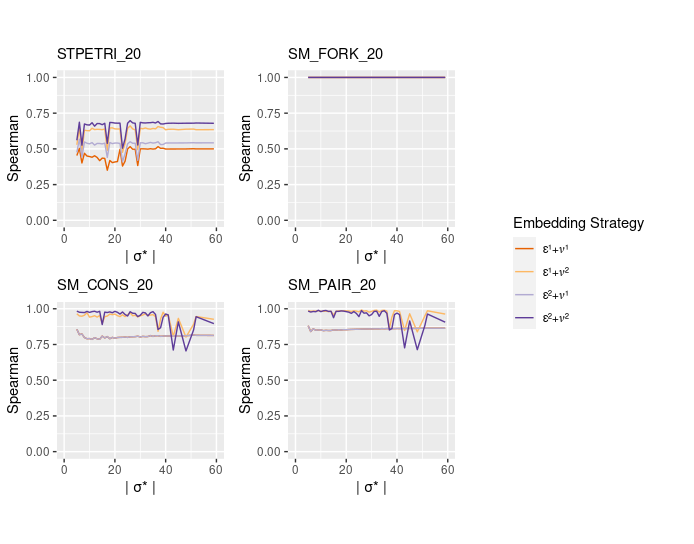
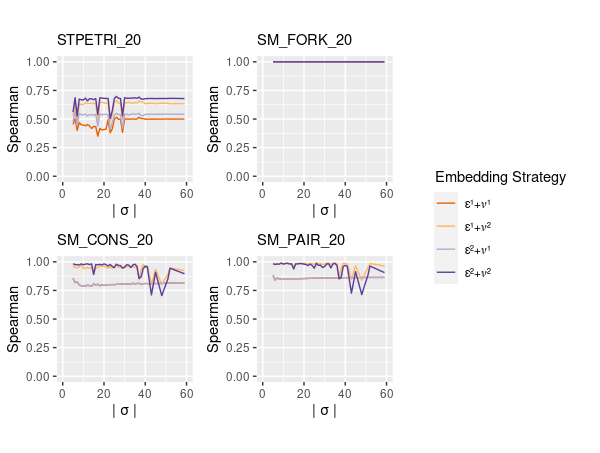
1) changed the representation back to frac 2) Changed the benchmarks with sigma as the log trace 3) From now on, all the non-log traces are \sigma', \nonlogtraces

diff --git a/sections/03_embedding_2.tex b/sections/03_embedding_2.tex
@@ -35,49 +35,60 @@ The well-known $k$-nearest neighbors ($k$NN) problem \cite{Altman} refers to fin
 %	
 If we want to align the trace $\logtrace$ over the \unravelled\ traces $\mathcal{X}=\WCal{\pmin}{n}$ and $d$ is a distance, the $k$-nearest neighbors describe the best $k$ alignments for $\logtrace$.} We now discuss two different possible strategies for obtaining the top-$k$ model trace alignments.
 
-\subsubsection{Optimal-Ranking Trace Aligner}\label{subsec:eta}
-{A possible way to carry out probabilistic trace alignment is to reuse existing trace aligners such as \cite{LeoniM17}, where the notion of distance $d(\trace,\logtrace)$ between two traces $\trace$ and $\logtrace$ is the Levenshtein distance, i.e., the {minimum} cost for aligning one of the two traces with respect to the other when all the possible moves have cost equal to 1.\footnote{This distance is slightly different from the Levenshtein distance known in the literature since here the replacement is obtained as a concatenation of a deletion and an addition.} We can then exploit decision theory \cite{dectheor} and express the decision score as  $\probskip{\trace} d(\trace,\logtrace)$.
 
-If we want to represent the same intuition of such a weighted distance as a kernel function to induce a ranking, we need to first transform it as a similarity function returning $1$ when both $\trace=\logtrace$ and  $\probskip{\trace}=1$ hold. We express $d$ as}
+\begin{figure*}[!t]
+	\begin{minipage}{.49\textwidth}
+		\includegraphics[width=\textwidth]{images/aligner_exact.pdf}
+		\caption{Optimal-Ranking Trace Aligner.}\label{fig:optimal}
+	\end{minipage}\hfill \begin{minipage}{.49\textwidth}
+		
+		\includegraphics[width=\textwidth]{images/aligner.pdf}
+		\caption{Approx.-Ranking Trace Aligner.}\label{fig:approximate}
+	\end{minipage}
+\end{figure*}
+\subsubsection{Optimal-Ranking Trace Aligner}\label{subsec:eta}
+{A possible way to carry out probabilistic trace alignment is to reuse existing trace aligners such as \cite{LeoniM17}, where the notion of distance $d(\nonlogtrace,\logtrace)$ between two traces $\nonlogtrace$ and $\logtrace$ is the Levenshtein distance, i.e., the {minimum} cost for aligning one of the two traces with respect to the other when all the possible moves have cost equal to 1.\footnote{This distance is slightly different from the Levenshtein distance known in the literature since here the replacement is obtained as a concatenation of a deletion and an addition.} We can then exploit decision theory \cite{dectheor} and express the decision score as  $\probskip{\nonlogtrace} d(\nonlogtrace,\logtrace)$.
+
+If we want to represent the same intuition of such a weighted distance as a kernel function to induce a ranking, we need to first transform it as a similarity function returning $1$ when both $\nonlogtrace=\logtrace$ and  $\probskip{\logtrace}=1$ hold. We express $d$ as}
 %\xout{We can express our probabilistic trace alignment as finding the trace that maximizes both the trace's probability and its similarity with the query trace $\logtrace$. Still, the trace alignments problems are usually expressed via trace alignments cost functions, and not via trace similarities \cite{LeoniM17}. Given a generic trace cost function $d(\trace,\trace')$, it is always possible to convert it into}
-a normalized similarity score $s_d(\trace,\trace'):=1/(d(\trace,\trace')/c+1)$ where $c\in\mathbb{N}_{\neq 0}$ is a constant, so that the maximum similarity of $1$ is reached when the distance is $0$ and the similarity decreases while the distance increases \cite{BergamiBM20}. %\xout{As a consequence, the exact trace aligner will find the weighted trace $\braket{\trace,\mathbb{P}(\trace)}$ in $\mathcal{W}_{\pmin}(P)$ maximising $s_d(\trace,\logtrace)$, and use $s_d$ as a ranking function.} \ADD
-{By  $\probskip{\logtrace}=1$, we can express the golden kernel function (i.e., the one producing the optimal ranking) as $k_\star(\trace,\logtrace)=\probskip{\trace} \probskip{\logtrace} s_d(\trace,\logtrace)$. The computation $\underset{\braket{\trace,\probskip{\trace}}\in \WCal{\pmin}{n}(P)}{\max\arg} k_\star(\trace, {\logtrace})$ returns the best optimal-ranking trace alignment $\trace$ for a query trace $\logtrace$, where $k_\ast$ must be computed a-new for all the possible $\logtrace$.
+a normalized similarity score $s_d(\nonlogtrace,\logtrace):=1/(d(\nonlogtrace,\logtrace)/c+1)$ where $c\in\mathbb{N}_{\neq 0}$ is a constant, so that the maximum similarity of $1$ is reached when the distance is $0$ and the similarity decreases while the distance increases \cite{BergamiBM20}. %\xout{As a consequence, the exact trace aligner will find the weighted trace $\braket{\trace,\mathbb{P}(\trace)}$ in $\mathcal{W}_{\pmin}(P)$ maximising $s_d(\trace,\logtrace)$, and use $s_d$ as a ranking function.} \ADD
+{By  $\probskip{\logtrace}=1$, we can express the golden kernel function (i.e., the one producing the optimal ranking) as $k_\star(\nonlogtrace,\logtrace)=\probskip{\nonlogtrace} \probskip{\logtrace} s_d(\nonlogtrace,\logtrace)$. The computation $\underset{\nonlogtrace\in \WCal{\pmin}{n}}{\max\arg} k_\star(\nonlogtrace, {\logtrace})$ returns the best optimal-ranking trace alignment $\nonlogtrace$ for a log trace $\logtrace$, where $k_\ast$ must be computed a-new for all the possible $\logtrace$.
 	
 	
 	
 
 \subsubsection{Approximate-Ranking Trace Embedder}\label{subsec:ate}
-As previously observed, $k$NN ranking optimality comes at the sub-optimal cost of a brute-force recomputation of all the embeddings $\phi$ for each novel trace $\logtrace$ to align\footnote{By embedding  all the \unravelled\ model traces via $\phi_{\logtrace}(\braket{\trace,\probskip{\trace}})=\Big(\frac{1}{\probskip{\trace}\sqrt{\probskip{\trace}^2+s_d^2(\trace,\logtrace)}},\frac{1}{s_d(\trace,\logtrace)\sqrt{\probskip{\trace}^2+s_d^2(\trace,\logtrace)}}\Big)$ over a specific $\logtrace$, by representing all the $\logtrace$ as $(0,0)$, and by using the Euclidean Distance as a distance, we ensure that all the neighbors of $(0,0)$ will represent the top-$k$ best alignments for $\logtrace$.}. %This is not optimal for $k$NN-based techniques, as this entails the  redefinition of the multidimensional search space $\mathcal{X}$ for each new alignment $\logtrace$. The ``recomputation cost'' could be completely avoided by providing an embedding strategy $\gorgembed$ that is independent from the to-be-aligned trace $\logtrace$.
+As previously observed, $k$NN ranking optimality comes at the sub-optimal cost of a brute-force recomputation of all the embeddings $\phi$ for each novel trace $\logtrace$ to align\footnote{By embedding  all the \unravelled\ model traces via $\phi_{\logtrace}(\nonlogtrace)=\Big(\frac{1}{\probskip{\nonlogtrace}\sqrt{\probskip{\nonlogtrace}^2+s_d^2(\nonlogtrace,\logtrace)}},\frac{1}{s_d(\nonlogtrace,\logtrace)\sqrt{\probskip{\nonlogtrace}^2+s_d^2(\nonlogtrace,\logtrace)}}\Big)$ over a specific $\logtrace$, by representing  $\logtrace$ as $(0,0)$, and by using the Euclidean Distance as a distance, we ensure that all the neighbors of $(0,0)$ will represent the top-$k$ best alignments for $\logtrace$.}. %This is not optimal for $k$NN-based techniques, as this entails the  redefinition of the multidimensional search space $\mathcal{X}$ for each new alignment $\logtrace$. The ``recomputation cost'' could be completely avoided by providing an embedding strategy $\gorgembed$ that is independent from the to-be-aligned trace $\logtrace$.
 An embedding strategy 
 Given that each embedding $\phi$ entails an associated similarity metric $k_\phi$ (\S\ref{subsec:katk}) and therefore an associated distance $d_{k_\phi}$ (Equation \ref{eq:dofk}), we can compute all the embeddings $\gorgembed$ for all the \unravelled\ traces before performing the top-$k$ search, thus avoiding the brute-force cost. This computational gain comes with a loss in precision, as the generation of precise embeddings for graph data with loops is an NP-Complete (thus intractable) problem \cite{GartnerFW03} and, in its approximated version, is not able to accurately represent the data using low-dimensional vectors \cite{Seshadhri5631}. So, our proposed definition of $\gorgembed$ performs  weakly-ideally (\S\ref{subsec:katk} and \cite{Gartner03}).
 
-{The embedding strategy} $\trembed$ (\S\ref{subsec:katk} and \cite{LodhiSSCW02,Raedt}9 {from current literature has several short\-comings: firstly,} \begin{alphalist} \item it does not perform weakly-ideally, so we cannot numerically assess when two embedding represent equivalent traces (Example \ref{ex:wheredotiszero}). Secondly, \item it does not characterize $\tau$-moves, so initial $\tau$-moves' probabilities are not preserved (Example \ref{ex:neue}). Thirdly, \item it is affected by numerical errors from finite arithmetics (e.g., double, float): longer traces $\trace$ generated from skewed probability distributions $\expN.\Lambda^i$ will suffer from greater truncation errors, as smaller $\lambda^i$ components for bigger $i<|\trace|$ will be ignored, thus preventing a complete numerical vector characterization of  $\trace$ in practice.
+{The embedding strategy} $\trembed$ (\S\ref{subsec:katk} and \cite{LodhiSSCW02,Raedt}9 {from current literature has several short\-comings: firstly,} \begin{alphalist} \item it does not perform weakly-ideally, so we cannot numerically assess when two embedding represent equivalent traces (Example \ref{ex:wheredotiszero}). Secondly, \item it does not characterize $\tau$-moves, so initial $\tau$-moves' probabilities are not preserved (Example \ref{ex:neue}). Thirdly, \item it is affected by numerical errors from finite arithmetics (e.g., double, float): longer traces $\nonlogtrace$ generated from skewed probability distributions $\expN.\Lambda^i$ will suffer from greater truncation errors, as smaller $\lambda^i$ components for bigger $i<|\nonlogtrace|$ will be ignored, thus preventing a complete numerical vector characterization of  $\nonlogtrace$ in practice.
 \end{alphalist}
 
 {We overcome these shortcomings by} \begin{alphalist} \item proposing a weakly-ideal embedding (p. \pageref{subsub:prop}), which also \item exploits an $\omega$ factor for preserving probabilities from and to $\tau$ transitions (Example \ref{ex:neue}). Furthermore, \item we mitigate the numerical truncation errors induced by trace length and probability distribution's skewness by introducing two sub-embedding strategies, $\epsilon^x$ and $\nu^x$, where the former descends from $\trembed$ and the latter approximates the trace similarity via label frequencies' similarity.
 \end{alphalist}
 
-Given that a trace embedding $\trace\in\WCal{\pmin}{n}$ adequately representing the transitions in $\expN.\Lambda$ requires an intermediate $G$ representation, we can map each trace to a transition graph $\tg_\sigma$ as follows:}
+Given that a trace embedding $\nonlogtrace\in\WCal{\pmin}{n}$ adequately representing the transitions in $\expN.\Lambda$ requires an intermediate $G$ representation, we can map each trace to a transition graph $\tg_\sigma$ as follows:}
 	\begin{definition}[$\closed{G}$ projection over traces]
-		Given a minimum probability threshold $\pmin$ and a $\tau$-closed transition graph $\closed{G}$, for each trace $\trace\in\ptraces{\closed{G}}{\pmin}$ we generate a transition graph
-		$\closed{G}_\sigma=(V_\trace,s_\trace,t_\trace,L_\trace,R_\trace,\omega_\trace)$, where \begin{inparaenum}[\it (i)]
-		\item $V_\trace$ contains all the distinct transitions 	
+		Given a minimum probability threshold $\pmin$ and a $\tau$-closed transition graph $\closed{G}$, for each trace $\nonlogtrace\in\ptraces{\closed{G}}{\pmin}$ we generate a transition graph
+		$\closed{G}_\sigma=(V_\nonlogtrace,s_\nonlogtrace,t_\nonlogtrace,L_\nonlogtrace,R_\nonlogtrace,\omega_\nonlogtrace)$, where \begin{inparaenum}[\it (i)]
+		\item $V_\nonlogtrace$ contains all the distinct transitions 	
 		\end{inparaenum}\dots
 		
-		\dots we generate a set $\TBf{\pmin}{n}(\closed{G})$ of projected TGs $P$ for each trace in $\WCal{\pmin}{n}(P)$ as follows: for each weighted trace $\braket{\trace,\probskip{\trace}}\in\WCal{\pmin}{n}(P)$ generated from a path $\pi_\trace=s\to n_2\rightsquigarrow n_m\to t$ over $R$, we generate a TG $P_\trace=(s',t',L_\trace,R_\trace,\omega')$, where \begin{inparaenum}[\it (i)]
+		\dots we generate a set $\TBf{\pmin}{n}(\closed{G})$ of projected TGs $P$ for each trace in $\WCal{\pmin}{n}(P)$ as follows: for each weighted trace $\braket{\nonlogtrace,\probskip{\nonlogtrace}}\in\WCal{\pmin}{n}(P)$ generated from a path $\pi_\nonlogtrace=s\to n_2\rightsquigarrow n_m\to t$ over $R$, we generate a TG $P_\nonlogtrace=(s',t',L_\nonlogtrace,R_\nonlogtrace,\omega')$, where \begin{inparaenum}[\it (i)]
 			\item $s'=s$ if $\textit{label}(s)\neq \tau$ and $t'=n_2$ otherwise,
 			\item $t'=t$ if $\textit{label}(t)\neq \tau$ and $t'=n_m$ otherwise,
-			\item $L_\trace$ (and $R_\trace$) is the submatrix of $L$ (and $R$) over the non-$\tau$ labeled notes in $\pi_\trace$ and the labels from $\trace$,
+			\item $L_\nonlogtrace$ (and $R_\nonlogtrace$) is the submatrix of $L$ (and $R$) over the non-$\tau$ labeled notes in $\pi_\nonlogtrace$ and the labels from $\nonlogtrace$,
 			\item $\omega'$ is initialized by $\omega$ and then multiplied by $[R]_{s,n_2}$ (and also $[R]_{n_m,t}$) if $\textit{label}(s)=\tau$ (and  $\textit{label}(t)=\tau$).
 		\end{inparaenum}
 	\end{definition}
 
 \begin{table}[!t]
-	\caption{Generating the sub-TGs $P_\trace\in \TBf{\varepsilon}{4}(P)$ from the TG $P$ via the set of weighted traces $\WCal{\varepsilon}{4}(P)$, where $\varepsilon$ is the machine epsilon. $l$ and $w$ respectively represent the desired parameter for $\gorgembed(P_\trace)$ and the weight associated to $P_\trace$.}\label{tab:proj}
+	\caption{Generating the sub-TGs $P_\nonlogtrace\in \TBf{\varepsilon}{4}(P)$ from the TG $P$ via the set of weighted traces $\WCal{\varepsilon}{4}(P)$, where $\varepsilon$ is the machine epsilon. $l$ and $w$ respectively represent the desired parameter for $\gorgembed(P_\nonlogtrace)$ and the weight associated to $P_\nonlogtrace$.}\label{tab:proj}
 	\centering
 	\resizebox{.45\textwidth}{!}{\begin{tabular}{>{\centering\arraybackslash} m{1cm}| >{\centering\arraybackslash} m{4cm} >{\centering\arraybackslash} m{1cm} >{\centering\arraybackslash} m{1cm} }
 			\toprule
-			$\trace$&$P_\trace$&$l$&$\omega$\\
+			$\nonlogtrace$&$P_\nonlogtrace$&$l$&$\omega$\\
 			\midrule
 			$\const{a}$ & \includegraphics{images/trace_a} & $1$ & $\color{violet}\pa\pf$\\
 			$\const{cb}$ & \includegraphics{images/trace_cb} & $2$ & $\color{violet}\pb$\\
@@ -86,7 +97,7 @@ Given that a trace embedding $\trace\in\WCal{\pmin}{n}$ adequately representing 
 			\bottomrule
 	\end{tabular}}\quad 	\resizebox{.45\textwidth}{!}{\begin{tabular}{>{\centering\arraybackslash} m{1cm}| >{\centering\arraybackslash} m{4cm} >{\centering\arraybackslash} m{1cm} >{\centering\arraybackslash} m{1cm} }
 	\toprule
-	$\trace$&$P_\trace$&$l$&$\omega$\\
+	$\nonlogtrace$&$P_\nonlogtrace$&$l$&$\omega$\\
 	\midrule
 	$\const{aa}$ & \includegraphics{images/trace_aa} & $2$ & $\color{violet}\pa\pf$\\
 	$\const{ca}$ & \includegraphics{images/trace_ca} & $2$ & $\color{violet}\pb\pf$\\
@@ -98,11 +109,11 @@ Given that a trace embedding $\trace\in\WCal{\pmin}{n}$ adequately representing 
 \begin{example}\label{ex:neue}
 Given the $\tau$-closed transition graph $\closed{\tg_{\rg{\net}}}$ in Figure \ref{fig:closed}, we assign the following probability values to the edges: $\pa=0.8$, $\pb=0.2$, $\pc=\pf=0.5$, $\pd=0.7$, and $\pe=0.3$. The $\ptraces{\expN}{0}$ with maximum length $4$ are the following:
 $$\begin{aligned}
-\ptraces{\expN}{0}_{|\trace|\leq 4}=\{&\braket{a,0.4},\braket{aa,0.2},\braket{aaa,0.1},\braket{ca,0.07},\\
+\ptraces{\expN}{0}_{|\nonlogtrace|\leq 4}=\{&\braket{a,0.4},\braket{aa,0.2},\braket{aaa,0.1},\braket{ca,0.07},\\
 &\braket{cb,0.06},\braket{aaaa,0.05},\braket{caa,0.035},\braket{caaa,0.0175}\}\\
 \end{aligned}$$
 Table \ref{tab:proj} represents the projected transition graphs associated to such traces. The associated weight $\omega$ derives from the source's outgoing edges (and target's ingoing edges) when such node is labeled as $\tau$: given that both \textit{(i)} the embedding strategy from current literature (\S\ref{subsec:katk}) allows trace embedding just for visible (i.e., non-$\tau$) transitions, and that \textit{(ii)} such trace extraction process discards the $\tau$ information but we want to preserve the transition probabilities from and to $\tau$ transitions, we exploit an additional parameter $\omega$ to preserve such information.
-%\xout{selection of a trace $\trace$ implies performing a set of specific probabilistic choices, we can remove all the edges starting (and arriving) at nodes that are $\tau$-labelled and move their score as the weight of the TG.}
+%\xout{selection of a trace $\nonlogtrace$ implies performing a set of specific probabilistic choices, we can remove all the edges starting (and arriving) at nodes that are $\tau$-labelled and move their score as the weight of the TG.}
 \end{example}
 	
 {We can now focus on the embedding $\gorgembed$ for each TG associated to our selected weighted traces. The main goal is to use $k_{\gorgembed}$ for ranking all the traces generated by the \unravelling step. Walking on such footsteps, we  want to extend  previous work on embeddings (\S\ref{subsec:katk}) by both including the traces' associated probability and by making the ranking induced by $k_{\gorgembed}$ the inverse of the ranking induced by the sum of the following distances: the transitions correlations $\epsilon$ and the transitions label frequency $\nu$ ({Proof omitted due to lack of space}). }
@@ -133,7 +144,7 @@ $$\gorgembed_{i}(\closed{\tg})=\begin{cases}
 where $\epsilon$ (and $\nu$) represents the non-negatively defined embedding associated to $\closed{\tg}.R$ (both $\closed{\tg}.R$ and $\closed{\tg}.L$).
 \end{definition}
 
-At this stage, the computation of $\underset{\trace\in \WCal{\pmin}{n}, P_\trace\in\TBf{p}{n}(P)}{\max\arg} k_{\gorgembed}(P_\trace, P_{\logtrace})$ returns the best approximated trace alignment $\trace$ for a query trace represented as $P_{\logtrace}$. %\xout{Similarly, we can provide the TG $P\in\mathbf{P}$ providing the best approximated alignment for $P_{\logtrace}$ as $\underset{P}{\max\arg}\underset{ P_\trace\in\mathbf{P}_p^n(P)}{\max} k_{\gorgembed}(P_\trace, P_{\logtrace})$.}¯
+At this stage, the computation of $\underset{\nonlogtrace\in \WCal{\pmin}{n}, P_\nonlogtrace\in\TBf{p}{n}(P)}{\max\arg} k_{\gorgembed}(P_\nonlogtrace, P_{\logtrace})$ returns the best approximated trace alignment $\nonlogtrace$ for a query trace represented as $P_{\logtrace}$. %\xout{Similarly, we can provide the TG $P\in\mathbf{P}$ providing the best approximated alignment for $P_{\logtrace}$ as $\underset{P}{\max\arg}\underset{ P_\trace\in\mathbf{P}_p^n(P)}{\max} k_{\gorgembed}(P_\trace, P_{\logtrace})$.}¯
 
 \begin{table}[!t]
 	\caption{Different sub-embedding definitions ($\epsilon^1$, $\epsilon^2$, $\nu^1$, and $\nu^2$) for $\gorgembed$.}\label{tab:embedstrat}
@@ -145,18 +156,18 @@ At this stage, the computation of $\underset{\trace\in \WCal{\pmin}{n}, P_\trace
 		$\epsilon^x(P)_{\color{green}\alpha\beta}:=$ & $\label{eq:epsilon}
 		\sum_{i=1}^l{\lambda^i}\frac{[LR^iL^t]_{\color{green}\alpha\beta}}{\sum_{\color{green}\alpha'\beta'}R^i_{\color{green}\alpha'\beta'}}$ & $
 		\sum_{i=1}^l\lambda^i[\Lambda^i]_{\color{green}\alpha\beta}$\\
-		$\nu^x(P)_{\color{green}\alpha}:=$ & $\frac{1}{N}\sum_{\braket{\trace,w}\in\WCal{\pmin}{l}(P)}\frac{|\Set{\trace_i\in\trace|\trace_i\neq\tau\wedge \trace_i={\color{green}\alpha}}|}{|\trace|}$ & $0$ \\
+		$\nu^x(P)_{\color{green}\alpha}:=$ & $\frac{1}{N}\sum_{\braket{\nonlogtrace,w}\in\WCal{\pmin}{l}(P)}\frac{|\Set{\nonlogtrace_i\in\nonlogtrace|\nonlogtrace_i\neq\tau\wedge \nonlogtrace_i={\color{green}\alpha}}|}{|\nonlogtrace|}$ & $0$ \\
 		\bottomrule
 	\end{tabular}}
 \end{table}
-Albeit we might pick different characterizations for $\epsilon$ and $\nu$, {in our experiment section} we choose two possible interchangeable definitions ($x=1$ and $x=2$) for both sub-embeddings (Table \ref{tab:embedstrat}): $l$ is the path length indicated in Table \ref{tab:proj}, and $N$ for $\nu^1$ is a normalization factor such that $\sum_{{\color{green}\alpha}\in\trace_\tau}\nu^1(P)_{\color{green}\alpha}=1$. \ADD{While $\nu^2$ implies to completely ignore the label's frequency contribution, $\epsilon^2$ is the direct implementation of $\trembed$ from \S\ref{subsec:katk}, and $\epsilon^1$ and $\epsilon^2$ only differ from the normalization perspective.} %In Example \ref{ex:cmpexample}, we will see that the given definition of $\epsilon^1$ provides a better approximation than the edge embedding $\epsilon^2$.
+Albeit we might pick different characterizations for $\epsilon$ and $\nu$, {in our experiment section} we choose two possible interchangeable definitions ($x=1$ and $x=2$) for both sub-embeddings (Table \ref{tab:embedstrat}): $l$ is the path length indicated in Table \ref{tab:proj}, and $N$ for $\nu^1$ is a normalization factor such that $\sum_{{\color{green}\alpha}\in\nonlogtrace_\tau}\nu^1(P)_{\color{green}\alpha}=1$. \ADD{While $\nu^2$ implies to completely ignore the label's frequency contribution, $\epsilon^2$ is the direct implementation of $\trembed$ from \S\ref{subsec:katk}, and $\epsilon^1$ and $\epsilon^2$ only differ from the normalization perspective.} %In Example \ref{ex:cmpexample}, we will see that the given definition of $\epsilon^1$ provides a better approximation than the edge embedding $\epsilon^2$.
 
 
 %When the transition matrix is ergodic \cite{StocasticCC},  the transition matrix embedding converges to $\epsilon(R)_{\color{green}\alpha\beta}=[(\mathbf{I}-\lambda\Lambda)^{-1}]_{\color{green}\alpha\beta}$ \cite{GartnerFW03} for $n\to+\infty$.
 
 \begin{table}[!t]
 	\centering
-	\caption{Embedding for both the traces $\trace$ of maximum length $4$ from $P$ and  $\logtrace$.}\label{tab:emb2}\label{tab:embsitar}
+	\caption{Embedding for both the traces $\nonlogtrace$ of maximum length $4$ from $P$ and  $\logtrace$.}\label{tab:emb2}\label{tab:embsitar}
 	\resizebox{.6\textwidth}{!}{\begin{tabular}{l|l|l|l|l|l|l|}
 		\toprule
 		& $\const{a}$    & $\const{b}$                                                   & $\const{c}$    & $\const{aa}$   & $\const{ca}$   & $\const{cb}$   \\
@@ -177,10 +188,10 @@ Albeit we might pick different characterizations for $\epsilon$ and $\nu$, {in o
 	\end{tabular}}
 \end{table}
 \begin{example}\label{ex:withpaths} %After generating all the TGs for the \unravelled\ traces (Example \ref{ex:neue}), we further associate a sub-embedding $\epsilon$ using the $2$-grams included in the model traces.\footnoteref{fn:caveat}
-%Given $\trace_\tau=\Set{a,b,c}$, the embedding space is of size $6$: three features (computed using $\nu$) correspond to the labels of the non-$\tau$ vertices in $\trace_\tau$, i.e., $\{a,b,c\}$, and other three features (computed using $\epsilon$) correspond to the $2$-grams subsequences that are also traces in $W^4_0(P)$, i.e., $\{aa,ca,cb\}$. Therefore, $\{a,b,c,aa,ca,cb\}\subset \trace_\tau^2\cup\trace_\tau$ is the whole set of features describing both the label and the transition matrix, so $\gorgembed$ is a vector with 6 dimensions.
+%Given $\nonlogtrace_\tau=\Set{a,b,c}$, the embedding space is of size $6$: three features (computed using $\nu$) correspond to the labels of the non-$\tau$ vertices in $\nonlogtrace_\tau$, i.e., $\{a,b,c\}$, and other three features (computed using $\epsilon$) correspond to the $2$-grams subsequences that are also traces in $W^4_0(P)$, i.e., $\{aa,ca,cb\}$. Therefore, $\{a,b,c,aa,ca,cb\}\subset \nonlogtrace_\tau^2\cup\nonlogtrace_\tau$ is the whole set of features describing both the label and the transition matrix, so $\gorgembed$ is a vector with 6 dimensions.
 $t_f\in [0,1]\subset\mathbb{R}^+_{0}$ and $\lambda\in [0,1]\subset\mathbb{R}^+_{0}$ are tuning parameters that can be inferred from the available data \cite{DriessensRG06}. While the latter describes the previously mentioned decay factor, $t_f$ represents the relevance of our embedding representation when the number of the edges within TG increases. In both our experiments and examples, we chose $t_f=0.0001$ and $\lambda=0.07$.
 %\xout{The embedding associated to $P$ is described in Table \ref{tab:emb1} as $\gorgembed(P)$: it shows that doing ${\color{green}a}\rightsquigarrow{\color{green}a}$ is more probable than doing  ${\color{green}c}\rightsquigarrow{\color{green}a}$. Also, given that both the probability of performing ${\color{green}c}\overset{1}{\rightsquigarrow}{\color{green}b}$ is relatively low and trace $\color{green}cb$ is relatively infrequent, ${\color{green}c}{\rightsquigarrow}{\color{green}b}$ is less probable than any other subtrace. If we now consider the single nodes, $\color{green}c$ shares a subset of traces with $\color{green}a$ where $\color{green}a$ is more frequent than $\color{green}c$, and therefore the score of the former is higher than the one of the latter. Also, the score associated to the single node $\color{green}b$ is lower than the one for the single node $\color{green}c$ because $\color{green}b$ is less frequent and appears in less probable traces than $\color{green}c$: in particular, $\color{green}c$ appears in \textit{ca}, which is more probable than \textit{cb}.}
-Table \ref{tab:emb2} represents the embeddings $\gorgembed(P_\trace)$ generated from the sub-TGs generated in Example \ref{ex:neue}, where the $l=|\trace|$ for each trace $\trace$ associated to the sub-TG. This representation is completely independent from the representation associated with a trace to be aligned. Therefore it does not have to be recomputed at each alignment with a different $\logtrace$.
+Table \ref{tab:emb2} represents the embeddings $\gorgembed(P_\nonlogtrace)$ generated from the sub-TGs generated in Example \ref{ex:neue}, where the $l=|\nonlogtrace|$ for each trace $\nonlogtrace$ associated to the sub-TG. This representation is completely independent from the representation associated with a trace to be aligned. Therefore it does not have to be recomputed at each alignment with a different $\logtrace$.
 {After representing trace $\logtrace=\textup{caba}$ to be aligned as a graph (see Example \ref{ex:tracembed}), we can represent its}
 %\xout{Similar considerations can be also drawn from the}
 embedding $\gorgembed(P_{\logtrace})$ with strategies $\epsilon^1$ and $\nu^1$ %\xout{associated to the trace $\logtrace=\textup{caba}$ (also in Table --):} \ADD
@@ -191,7 +202,7 @@ embedding $\gorgembed(P_{\logtrace})$ with strategies $\epsilon^1$ and $\nu^1$ %
 
 %Given that kernel functions $k_\phi$ are defined as the dot product between the embedding $\phi$ of distinct objects $x$ (\S\ref{subsec:katk}), then we can express the kernel $k_{\gorgembed}$ as such dot product and, after normalizing $\epsilon$ and $\nu$, we can rewrite such kernel
 The kernel $k_\gorgembed$ associated to $\gorgembed$ is
-{ a function of the distance  $\|\hat{\epsilon}-\hat{\epsilon}'\|_2^2$ and $\|\hat{\nu}-\hat{\nu}'\|_2^2$ for traces $\trace$ and $\trace'$ to be aligned:}
+{ a function of the distance  $\|\hat{\epsilon}-\hat{\epsilon}'\|_2^2$ and $\|\hat{\nu}-\hat{\nu}'\|_2^2$ for traces $\nonlogtrace$ and $\nonlogtrace'$ to be aligned:}
 
 \begin{proposition}\label{lem:rewritinglemma}
 Given two TGs $P=(s,t,L,R,w)$ and $P'=(s',t',L',R',w')$, the TG Kernel is defined as follows:
@@ -247,9 +258,9 @@ When the $\hat{\epsilon}$ and $\hat{\epsilon}'$ strategy are affected by numeric
 		{$\trace$} &
 		%\multirow{2}{*}{$d(\trace,\logtrace)$} &
 		%\multicolumn{2}{c|}{$\mu_{\logtrace}$} &
-		$( \probskip{\trace}$ &  $,\,\boldsymbol{\downarrow} s_d(\trace,\logtrace)) $ &
-		{$=k_\star(\trace,\logtrace)$} &
-		{$k_{\gorgembed}(P_\trace,P_{\logtrace})$} \\
+		$( \probskip{\nonlogtrace}$ &  $,\,\boldsymbol{\downarrow} s_d(\nonlogtrace,\logtrace)) $ &
+		{$=k_\star(\nonlogtrace,\logtrace)$} &
+		{$k_{\gorgembed}(P_\nonlogtrace,P_{\logtrace})$} \\
 		
 		
 		\midrule
@@ -266,7 +277,7 @@ When the $\hat{\epsilon}$ and $\hat{\epsilon}'$ strategy are affected by numeric
 	\toprule
 	
 	{$\trace$} &
-	{$\boldsymbol{\downarrow}k_\star(\trace,\logtrace)$} \\
+	{$\boldsymbol{\downarrow}k_\star(\nonlogtrace,\logtrace)$} \\
 	
 	
 	\midrule
@@ -283,7 +294,7 @@ When the $\hat{\epsilon}$ and $\hat{\epsilon}'$ strategy are affected by numeric
 	\toprule
 	
 	{$\trace$} &
-	{$\boldsymbol{\downarrow}k_{\gorgembed}(P_\trace,P_{\logtrace})$} \\
+	{$\boldsymbol{\downarrow}k_{\gorgembed}(P_\nonlogtrace,P_{\logtrace})$} \\
 
 	
 	\midrule
@@ -303,7 +314,7 @@ When the $\hat{\epsilon}$ and $\hat{\epsilon}'$ strategy are affected by numeric
 
 
 \begin{example}\label{ex:11}
-	Given $k_{\gorgembed}(\trace,\logtrace)=\braket{\gorgembed(G_\trace),\;\gorgembed(G_{\logtrace})}$ with sub-embedding $\nu^1$ and $\epsilon^1$ for each  trace $\trace\in\WCal{\varepsilon}{4}$,  the dot product between the resulting similarity ranking is represented in Table \ref{tab:rank3}, where the expected ranking $k_\star$ is also showed. $k_{\gorgembed}$ approximates the expected ranking  and tends to rank in similar ways the paths generated from the same subgraph of the TG.
+	Given $k_{\gorgembed}(\nonlogtrace,\logtrace)=\braket{\gorgembed(G_\nonlogtrace),\;\gorgembed(G_{\logtrace})}$ with sub-embedding $\nu^1$ and $\epsilon^1$ for each  trace $\nonlogtrace\in\WCal{\varepsilon}{4}$,  the dot product between the resulting similarity ranking is represented in Table \ref{tab:rank3}, where the expected ranking $k_\star$ is also showed. $k_{\gorgembed}$ approximates the expected ranking  and tends to rank in similar ways the paths generated from the same subgraph of the TG.
 \end{example}
 
 

diff --git a/neue_macros.tex b/neue_macros.tex
@@ -39,12 +39,12 @@
 \newcommand{\pe}{\rho_{67}}
 \newcommand{\pf}{\rho_{57}}
 
-\newcommand{\logtrace}{\trace_\ell}
+\newcommand{\logtrace}{\trace}
+\newcommand{\nonlogtrace}{{\trace'}}
+
 
 \newcommand{\approptoinn}[2]{\mathrel{\vcenter{
 			\offinterlineskip\halign{\hfil$##$\cr
 				#1\propto\cr\noalign{\kern2pt}#1\sim\cr\noalign{\kern-2pt}}}}}
 \newcommand{\appropto}{\mathpalette\approptoinn\relax}
 
-
-%\newwatermark[pages=15-\lastdocpage,color=red!25,scale=1,xpos=0,ypos=0,angle=45]{Page limit exceeded!}

diff --git a/main.tex b/main.tex
@@ -76,7 +76,6 @@ Conformance checking techniques verify whether the observed behavior recorded in
 \input{sections/02_preliminaries}
 \input{sections/03_embedding}
 \input{sections/03_embedding_2}
-%\input{sections/04_proposal}
 \input{sections/05_experiment}
 \input{sections/06_conclusion}
 

diff --git a/neue_imports.tex b/neue_imports.tex
@@ -18,6 +18,3 @@
 \usepackage{amssymb}
 \usepackage{paralist}
 \usepackage[inline]{enumitem}
-
-\usepackage{varioref}
-\usepackage{xwatermark}
